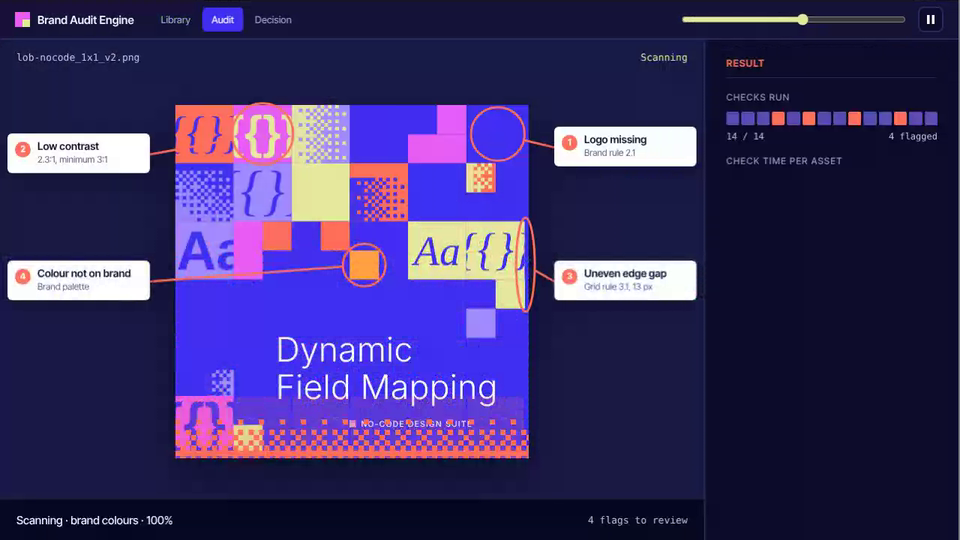
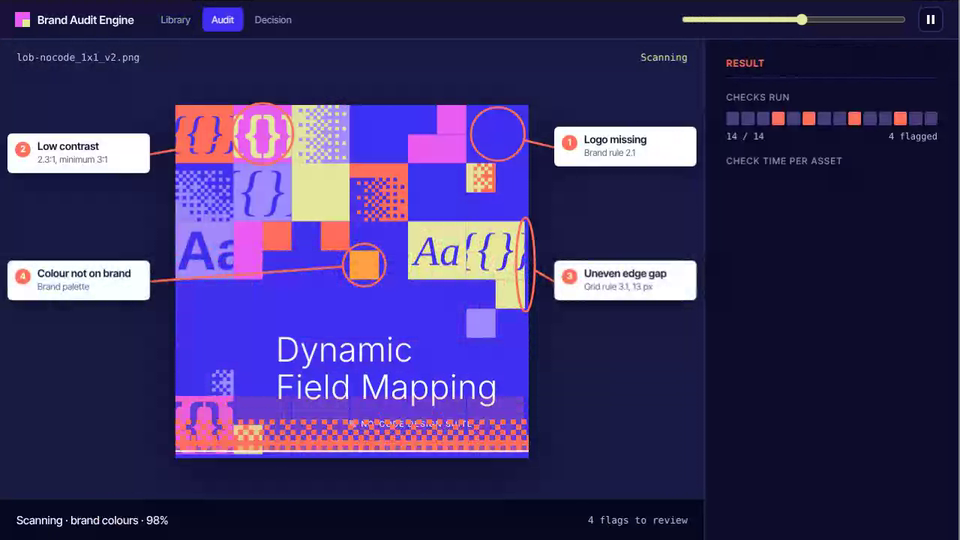
Brand Audit Engine: flag the bottom gap, muted purple checks (#243)
* Add Brand Audit Engine: asset library with review stages, scan and flag audit, results panel

Claude-Session: https://claude.ai/code/session_01AHeBdyJbkKFm3mk24X3VDa

* Fix apps.json merge

Claude-Session: https://claude.ai/code/session_01AHeBdyJbkKFm3mk24X3VDa

* Brand Audit Engine: move text up on two 9:16 library assets

Claude-Session: https://claude.ai/code/session_01AHeBdyJbkKFm3mk24X3VDa

* Brand Audit Engine: drop legal text flag (four flags), re-record clip

Claude-Session: https://claude.ai/code/session_01AHeBdyJbkKFm3mk24X3VDa

* Brand Audit Engine: drop empty merge field flag (three flags), re-record clip

Claude-Session: https://claude.ai/code/session_01AHeBdyJbkKFm3mk24X3VDa

* Brand Audit Engine: divider above accuracy, re-record clip

Claude-Session: https://claude.ai/code/session_01AHeBdyJbkKFm3mk24X3VDa

* Brand Audit Engine: flag the uneven edge gap beside the yellow cells, re-record clip

Claude-Session: https://claude.ai/code/session_01AHeBdyJbkKFm3mk24X3VDa

* Brand Audit Engine: darker inactive purple for passed checks, re-record clip

Claude-Session: https://claude.ai/code/session_01AHeBdyJbkKFm3mk24X3VDa

* Brand Audit Engine: flag the bottom gap, more muted purple for passed checks, re-record clip

Claude-Session: https://claude.ai/code/session_01AHeBdyJbkKFm3mk24X3VDa

---------

diff --git a/brand-audit-engine/index.html b/brand-audit-engine/index.html
@@ -111,7 +111,7 @@ button:focus-visible,input:focus-visible{outline:2px solid var(--lime);outline-o
 .res h4{font-size:12px;font-weight:500;letter-spacing:.1em;text-transform:uppercase;color:var(--muted);margin-bottom:10px}
 .ticks{display:grid;grid-template-columns:repeat(14,1fr);gap:3px;margin-bottom:8px}
 .ticks i{height:18px;background:var(--line);border-radius:2px}
-.ticks i.p{background:#5A4DB5} .ticks i.x{background:var(--coral)}
+.ticks i.p{background:#453F7E} .ticks i.x{background:var(--coral)}
 .crow{display:flex;justify-content:space-between;font:400 12px var(--mono);color:#C9C6F2}
 .bars{display:grid;gap:8px}
 .bl{display:flex;align-items:center;gap:14px;height:38px}
@@ -303,7 +303,8 @@ const FLAGS = [
   {n:1, title:'Logo missing',        sub:'Brand rule 2.1',          cx:1180, cy:106,  rx:98,  ry:98,  side:'R', slot:.12},
   {n:2, title:'Low contrast',        sub:`${CR}:1, minimum 3:1`,    cx:320,  cy:106,  rx:112, ry:112, side:'L', slot:.14},
   {n:3, title:'Uneven edge gap',      sub:'Grid rule 3.1, 13 px',    cx:1281, cy:585,  rx:34,  ry:172, side:'R', slot:.5},
-  {n:4, title:'Colour not on brand', sub:'Brand palette',           cx:692,  cy:586,  rx:78,  ry:78,  side:'L', slot:.5}
+  {n:4, title:'Colour not on brand', sub:'Brand palette',           cx:692,  cy:586,  rx:78,  ry:78,  side:'L', slot:.5},
+  {n:5, title:'Uneven bottom gap',    sub:'Grid rule 3.1, 15 px',    cx:175,  cy:1285, rx:200, ry:30,  side:'L', slot:.9}
 ];
 const SCAN_A = 6900, SCAN_B = 11400;
 FLAGS.forEach(f => f.t = SCAN_A + (SCAN_B - SCAN_A) * clamp01((f.cy - f.ry * .5) / REF));
@@ -413,7 +414,7 @@ function renderDetail(t){
   const S = ST[st], steps = ['Uploaded','Auto-audit','Human review','Approved'];
   const pipe = steps.map((n, i) => `<div class="${i + 1 < S.step ? 'done' : i + 1 === S.step ? 'cur' : ''}" style="--c:${S.c}"><b>${i + 1 < S.step ? '✓' : i + 1}</b>${n}${i + 1 === S.step ? `<small>${st === 'changes' ? 'Back to designer' : 'In progress'}</small>` : ''}</div>`).join('');
   detail.innerHTML = `<div class="dthumb"></div><div class="dname">${it.name}</div>
-    <dl class="kv"><dt>Status</dt><dd><span class="pill" style="--c:${S.c};margin:0">${S.label}</span></dd><dt>Format</dt><dd>1:1 · 1293 px</dd><dt>Campaign</dt><dd>No-code launch</dd><dt>Flags</dt><dd>${st === 'changes' ? '4 open' : 'Not audited'}</dd></dl>
+    <dl class="kv"><dt>Status</dt><dd><span class="pill" style="--c:${S.c};margin:0">${S.label}</span></dd><dt>Format</dt><dd>1:1 · 1293 px</dd><dt>Campaign</dt><dd>No-code launch</dd><dt>Flags</dt><dd>${st === 'changes' ? '5 open' : 'Not audited'}</dd></dl>
     <div class="pipe">${pipe}</div><button class="btn${st === 'changes' ? ' ghost' : ''}" id="runBtn">${st === 'changes' ? 'View report' : 'Run audit'}</button>`;
   const c = document.createElement('canvas'); c.width = c.height = 300; c.getContext('2d').drawImage(tcv, 0, 0); detail.querySelector('.dthumb').appendChild(c);
 }
@@ -533,7 +534,7 @@ function render(t){
     setTxt('el', el.eleft, done ? 'Reviewer decides' : t < SCAN_A ? 'Preparing' : `Scanning · ${lab} · ${Math.round(sp * 100)}%`);
     setTxt('er', el.eright, `${started} flag${started === 1 ? '' : 's'} to review`);
     const n = Math.round(14 * sp);
-    tickEls.forEach((e, i) => { const fl = [3, 5, 8, 11].indexOf(i) >= 0 && i < n && FLAGS[[3, 5, 8, 11].indexOf(i)].t <= t; e.className = i < n ? (fl ? 'x' : 'p') : ''; });
+    tickEls.forEach((e, i) => { const fl = [3, 5, 8, 11, 13].indexOf(i) >= 0 && i < n && FLAGS[[3, 5, 8, 11, 13].indexOf(i)].t <= t; e.className = i < n ? (fl ? 'x' : 'p') : ''; });
     setTxt('cn', el.cn, `${n} / 14`); setTxt('cf', el.cf, `${started} flagged`);
     FLAGS.forEach(f => {
       const c = easeOut(prog(t, f.t, f.t + 450)), l = easeOut(prog(t, f.t + 380, f.t + 750)), k = easeOut(prog(t, f.t + 600, f.t + 950));
